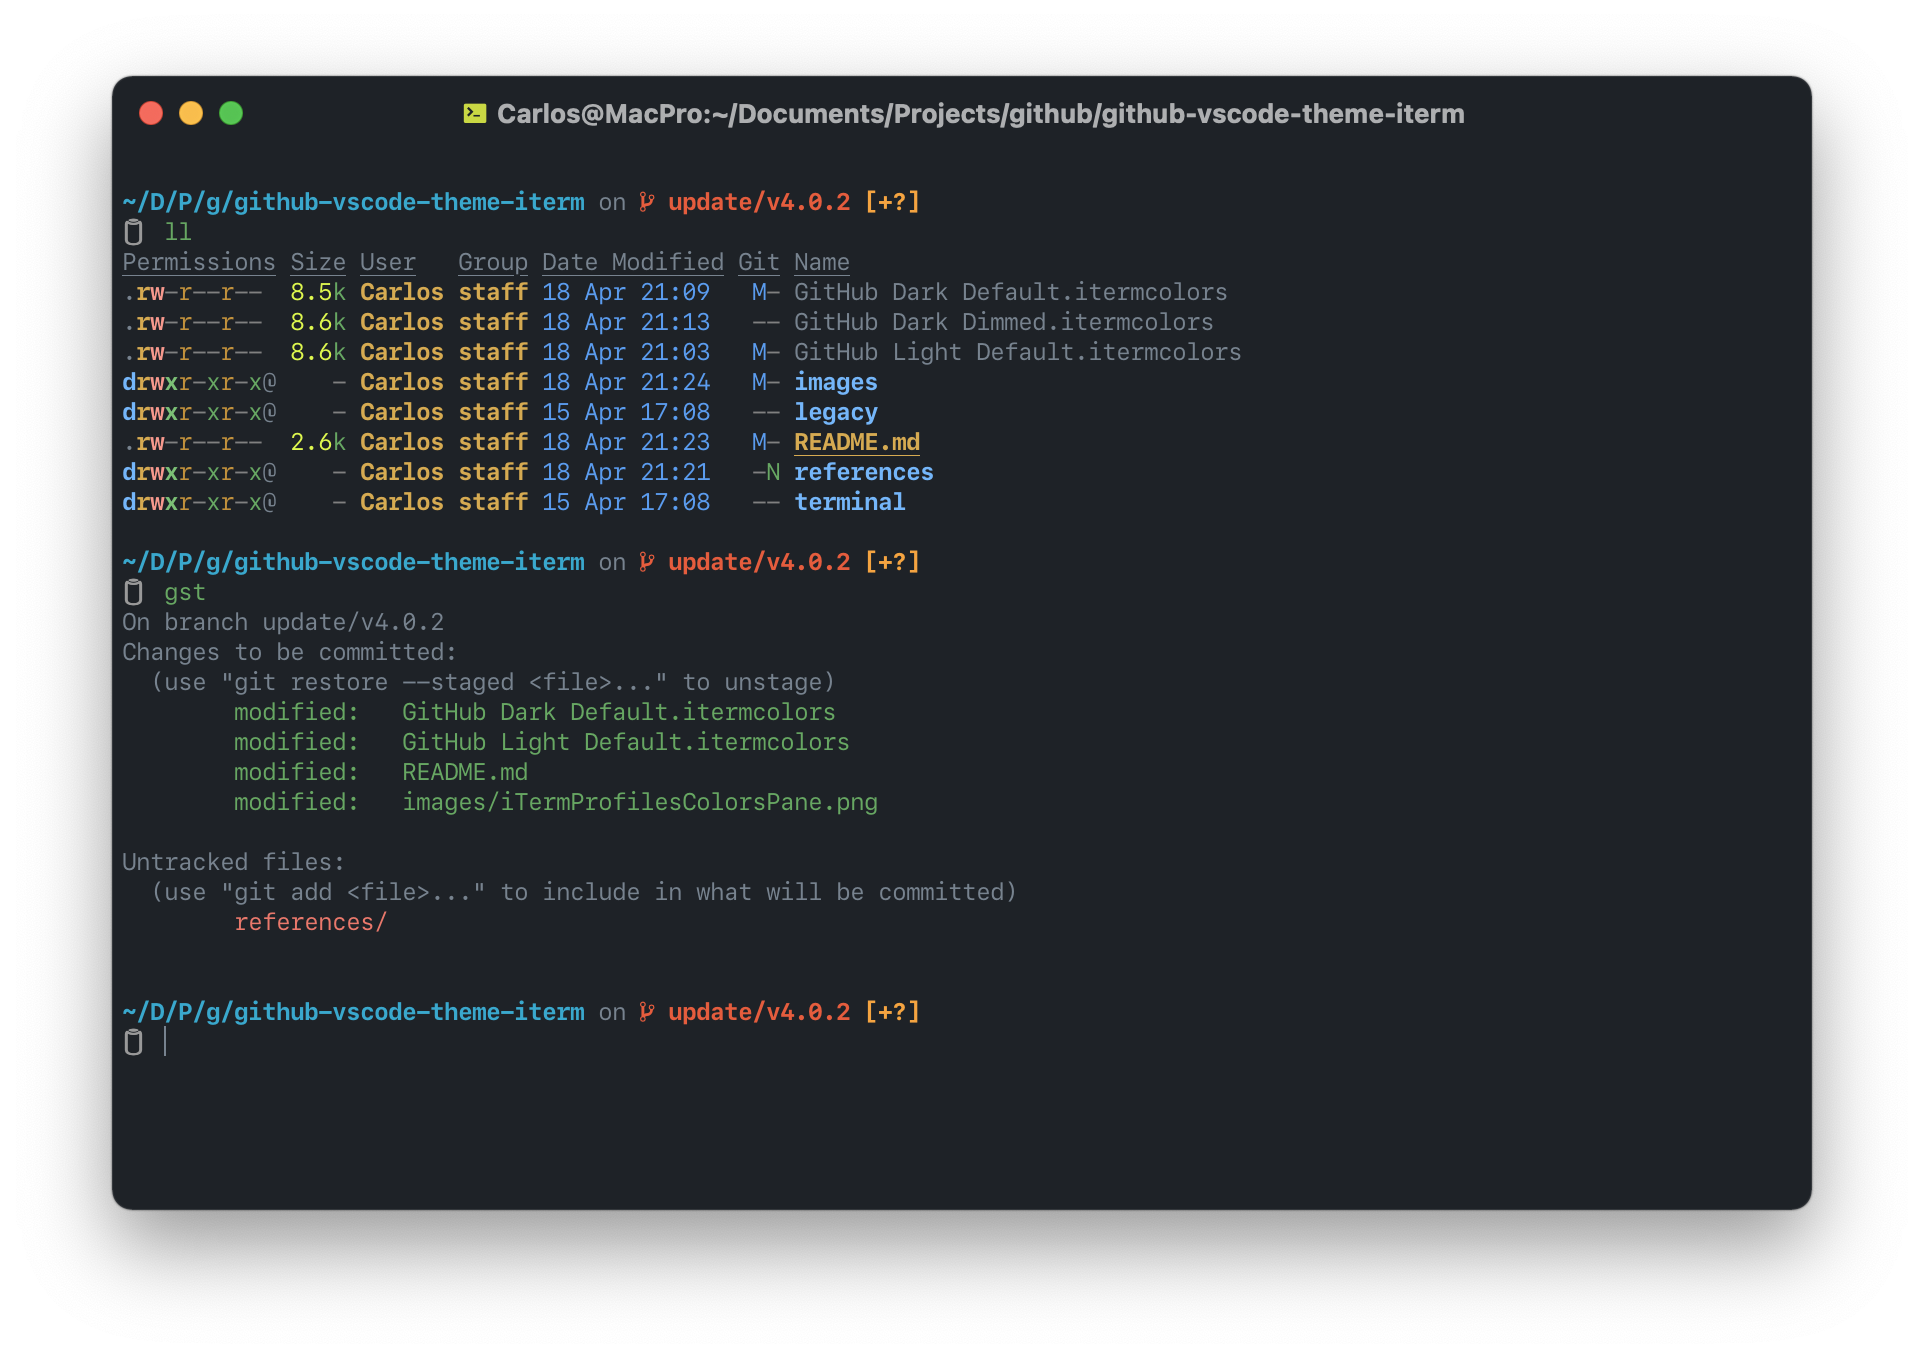
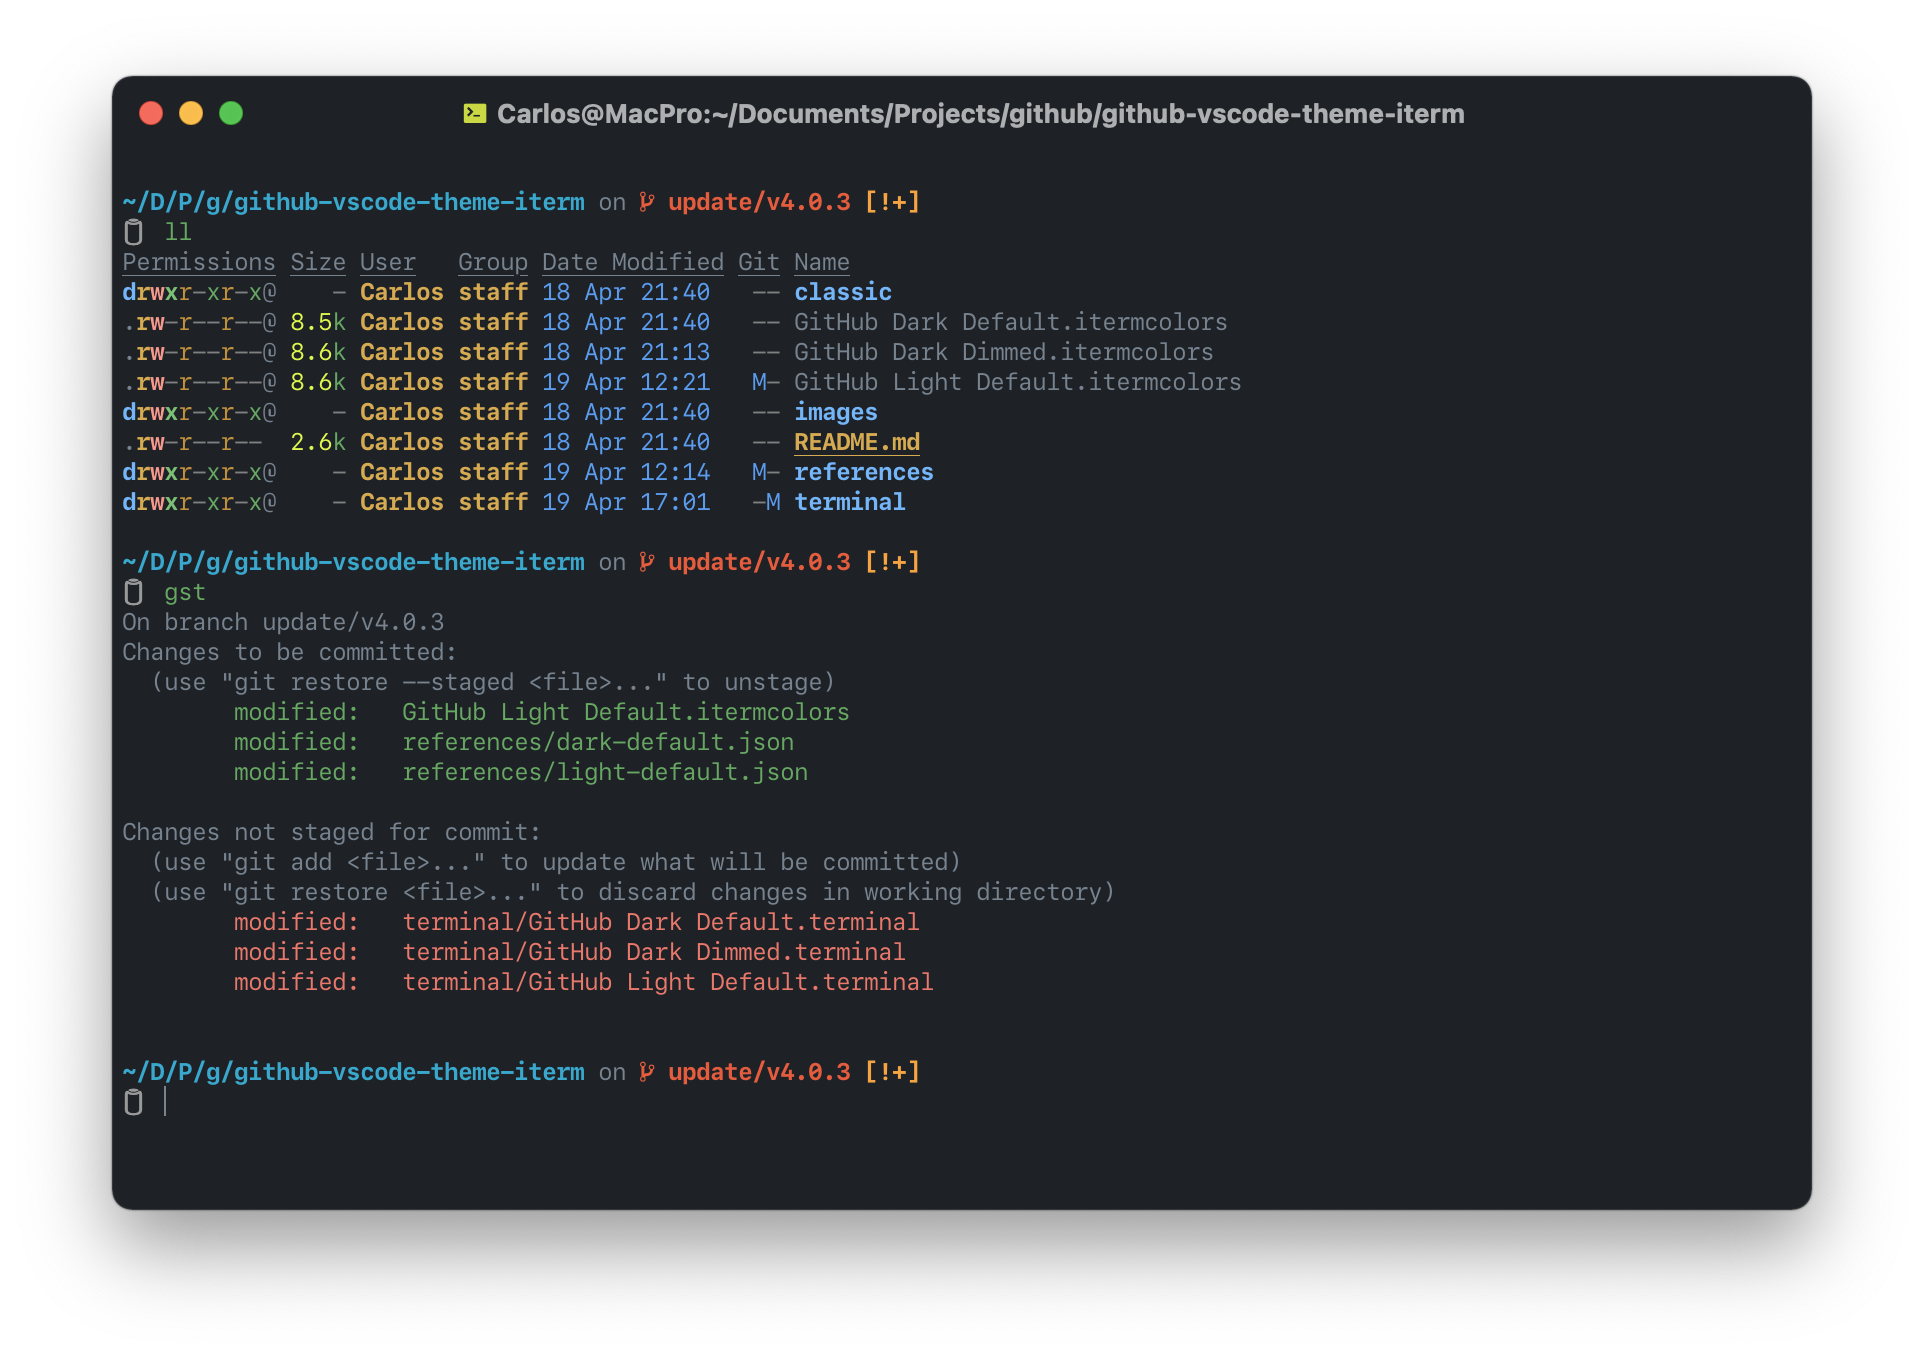
feat: Update to version 4.0.3

diff --git a/README.md b/README.md
@@ -2,7 +2,7 @@
 
 # GitHub VS Code Theme for iTerm
 
-<img src="https://github.gallerycdn.vsassets.io/extensions/github/github-vscode-theme/4.0.2/1618580791596/Microsoft.VisualStudio.Services.Icons.Default" width="64px" align="right" style="top: 1px; visibility: visible;" />
+<img src="https://github.gallerycdn.vsassets.io/extensions/github/github-vscode-theme/4.0.3/1618821647633/Microsoft.VisualStudio.Services.Icons.Default" width="64px" align="right" style="top: 1px; visibility: visible;" />
 
 [GitHub Visual Studio Code Theme][vscode-github-theme-marketplace] for [iTerm](https://iterm2.com) (Dark, Dimmed & Light)
 
@@ -37,5 +37,5 @@ You can also download these profiles for Apple Terminal app:
 - [GitHub Light.terminal](https://raw.githubusercontent.com/cdalvaro/github-theme-iterm/HEAD/terminal/classic/GitHub%20Light.terminal)
 
 [vscode-github-theme-marketplace]: https://marketplace.visualstudio.com/items?itemName=GitHub.github-vscode-theme
-[vscode-github-theme-version]: https://img.shields.io/badge/GitHub%20Theme-v4.0.2-007ACC?style=flat-square&logo=visual-studio-code&logoColor=007ACC
-[github-vscode-theme-release]: https://github.com/primer/github-vscode-theme/releases/tag/v4.0.2
+[vscode-github-theme-version]: https://img.shields.io/badge/GitHub%20Theme-v4.0.3-007ACC?style=flat-square&logo=visual-studio-code&logoColor=007ACC
+[github-vscode-theme-release]: https://github.com/primer/github-vscode-theme/releases/tag/v4.0.3
